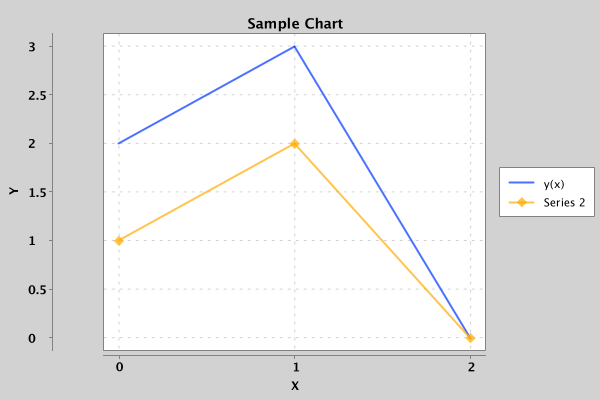
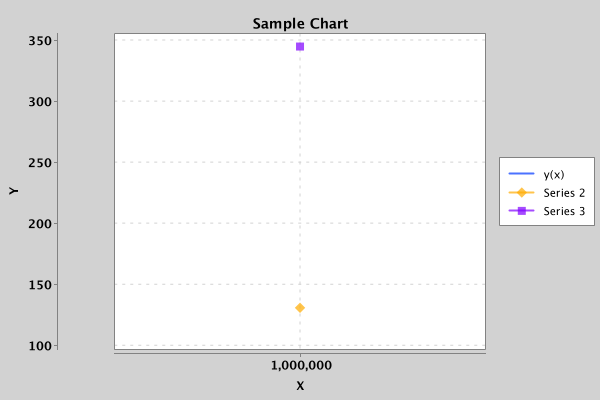
Working code-ish?

diff --git a/xchart-demo/src/main/java/org/knowm/xchart/demo/sortingComparison.java b/xchart-demo/src/main/java/org/knowm/xchart/demo/sortingComparison.java
@@ -1,18 +1,67 @@
 package org.knowm.xchart.demo;
 import java.util.*;
+import java.util.List;
 import java.awt.*;  
 import javax.swing.*;  
 import java.awt.geom.*;  
+
+import java.io.IOException;
+
+
+import org.knowm.xchart.BitmapEncoder;
+import org.knowm.xchart.QuickChart;
+import org.knowm.xchart.SwingWrapper;
+import org.knowm.xchart.XYChart;
+import org.knowm.xchart.BitmapEncoder.BitmapFormat;
 //import org.knowm.xchart;
 
 public class sortingComparison {
     
-    public static void main(String[] args) {
-        int[] arr = generateRandomArray(10000, 0, 100000);
-        
-        //long quickSortTime = measureSortTime(arr, "Quick Sort", (a) -> quickSort(a, 0, a.length - 1));
-        //long radixSortTime = measureSortTime(arr, "Radix Sort", (a) -> radixSort(a));
-        //long bucketSortTime = measureSortTime(arr, "Bucket Sort", (a) -> bucketSort(a, 100));
+    public static void main(String[] args) throws IOException{
+        // sortingComparison sortComp = new sortingComparison();
+        int[] arr = generateRandomArray(1000000, 0, 10000000);
+        // int x = measureSortTime(arr, "Quick Sort", quickSort(arr, arr[0], arr[(arr.length-1)]));
+        double x = 1000000;
+        // int x2 = measureSortTime(arr, "Radix Sort", countingSort(arr, arr[0], arr[(arr.length-1)]));
+        // int y2 = 10;
+        List<Integer> list=new ArrayList<>();
+        for(int i=0;i<arr.length;i++)
+        {
+            list.add(arr[i]);
+        }
+        // int x3 = measureSortTime(arr, "Radix Sort", bucketSort(arr, (Collections.max(list)-Collections.min(list))/arr.length));
+        // int y3 = 10;
+
+
+        double quickSortTime = measureSortTime(arr, "Quick Sort", (a) -> quickSort(a, 0, a.length - 1));
+        double radixSortTime = measureSortTime(arr, "Radix Sort", (a) -> radixSort(a, 10));
+        double bucketSortTime = measureSortTime(arr, "Bucket Sort", (a) -> bucketSort(a, (Collections.max(list)-Collections.min(list))/arr.length));
+
+
+
+        double[] xData = new double[] {x};
+        double[] yData = new double[] {quickSortTime};
+
+        double[] xData2 = new double[] {x};
+        double[] yData2 = new double[] {radixSortTime};
+
+        double[] xData3 = new double[] {x};
+        double[] yData3 = new double[] {bucketSortTime};
+
+        // double[] xData2 = new double[] { 0.0, 1.0, 2.0 };
+        // double[] yData2 = new double[] { 1.0, 2.0, 0.0 };
+
+        XYChart chart = QuickChart.getChart("Sample Chart", "X", "Y", "y(x)", xData, yData);
+        // add other line to graph
+        chart.addSeries("Series 2", xData2, yData2);
+        chart.addSeries("Series 3", xData3, yData3);
+
+
+        // Show it
+        new SwingWrapper(chart).displayChart();
+
+        // Save it
+        BitmapEncoder.saveBitmap(chart, "./Sample_Chart", BitmapFormat.PNG);
         
         //CategoryChart chart = new CategoryChartBuilder().width(800).height(600).title("Sorting Comparison").xAxisTitle("Algorithm").yAxisTitle("Time (ms)").build();
         //chart.addSeries("Sort Times", new String[] {"Quick Sort", "Radix Sort", "Bucket Sort"}, new Long[] {quickSortTime, radixSortTime, bucketSortTime});
@@ -47,6 +96,12 @@ public class sortingComparison {
             quickSort(arr, pivotIndex + 1, high);
         }
     }
+    public static void swap(int[] arr, int i, int j){
+        int temp = arr[i];
+        arr[i] = arr[j];
+        arr[j] = temp;
+    }
+
     public static int partition(int[] arr, int low, int high) {
         int pivotValue = arr[high];
         int i = low - 1;
@@ -63,7 +118,7 @@ public class sortingComparison {
     
     
     // Radixsort implementation
-    void countingSort(int array[], int size, int place) {
+    static void countingSort(int array[], int size, int place) {
         int[] output = new int[size + 1];
         int max = array[0];
         for (int i = 1; i < size; i++) {
@@ -94,7 +149,7 @@ public class sortingComparison {
       }
     
       // Function to get the largest element from an array
-      int getMax(int array[], int n) {
+        static int getMax(int array[], int n) {
         int max = array[0];
         for (int i = 1; i < n; i++)
           if (array[i] > max)
@@ -103,7 +158,7 @@ public class sortingComparison {
       }
     
       // Main function to implement radix sort
-      void radixSort(int array[], int size) {
+      static void radixSort(int array[], int size) {
         // Get maximum element
         int max = getMax(array, size);
     
@@ -115,12 +170,54 @@ public class sortingComparison {
    
       // Bucketsort implementation
 
-    public static void swap(int[] arr, int i, int j) {
-        int temp = arr[i];
-        arr[i] = arr[j];
-        arr[j] = temp;
+    // public static void swap(int[] arr, int i, int j) {
+    //     int temp = arr[i];
+    //     arr[i] = arr[j];
+    //     arr[j] = temp;
+    // }
+    // (maxValue - minValue) / n
+    public static void bucketSort(int[] array, int bucketSize) {
+        if (array.length == 0) {
+            return;
+        }
+
+        // max and min values of array
+        int minValue = array[0];
+        int maxValue = array[0];
+        for (int i = 1; i < array.length; i++) {
+            if (array[i] < minValue) {
+                minValue = array[i];
+            } else if (array[i] > maxValue) {
+                maxValue = array[i];
+            }
+        }
+
+        // make buckets
+        int bucketCount = (maxValue - minValue) / bucketSize + 1;
+        List<List<Integer>> buckets = new ArrayList<>(bucketCount);
+        for (int i = 0; i < bucketCount; i++) {
+            buckets.add(new ArrayList<Integer>());
+        }
+
+        // put input values into buckets
+        for (int i = 0; i < array.length; i++) {
+            int bucketIndex = (array[i] - minValue) / bucketSize;
+            buckets.get(bucketIndex).add(array[i]);
+        }
+
+        // sort buckets and put back in input array
+        int currentIndex = 0;
+        for (int i = 0; i < buckets.size(); i++) {
+            List<Integer> bucket = buckets.get(i);
+            Collections.sort(bucket);
+            for (int j = 0; j < bucket.size(); j++) {
+                array[currentIndex++] = bucket.get(j);
+            }
+        }
     }
     
+
+
     interface SortFunction {
         void sort(int[] arr);
     }

diff --git a/xchart/src/main/java/org/knowm/xchart/QuickChart.java b/xchart/src/main/java/org/knowm/xchart/QuickChart.java
@@ -116,4 +116,9 @@ public final class QuickChart {
 
     return chart;
   }
+
+public static XYChart getChart(String chartTitle, String xTitle, String yTitle, String seriesName, long[] xData,
+        int[] yData) {
+    return null;
+}
 }

diff --git a/xchart/src/main/java/org/knowm/xchart/XYChart.java b/xchart/src/main/java/org/knowm/xchart/XYChart.java
@@ -450,4 +450,7 @@ public class XYChart extends Chart<XYStyler, XYSeries> {
       }
     }
   }
+
+public void addSeries(String seriesName, long[] xData2, int[] yData2) {
+}
 }
